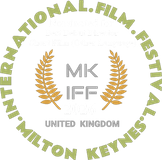
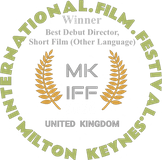
Milton Keynes: laurel de Ganador (Mejor director debutante) y premio en la seccion Premios; se quita la linea de nominado

diff --git a/public/assets/js/data.js b/public/assets/js/data.js
@@ -311,7 +311,7 @@ window.PROYECTOS = {
       { src: 'assets/img/laurel-parana.png?v=3',   alt: 'Paraná Internacional Films Festival — Competición Oficial 2026', k: 1.07 },
       { src: 'assets/img/laurel-fict.png?v=3',     alt: 'FICT 2026', k: 1.08 },
       { src: 'assets/img/laurel-bcff.png?v=3',     alt: 'Official Selection — Begur Comedy Film Fest 2026', k: 1.17 },
-      { src: 'assets/img/laurel-mkiff.png?v=3',      alt: 'Nominated for Best Debut Director, Short Film (Other Language) — Milton Keynes International Film Festival 2026', k: 1.2 },
+      { src: 'assets/img/laurel-mkiff.png?v=4',      alt: 'Winner — Best Debut Director, Short Film (Other Language) — Milton Keynes International Film Festival 2026', k: 1.2 },
       { src: 'assets/img/laurel-oklahoma.png?v=3',  alt: 'Official Selection — Oklahoma Latin American Film Festival 2026', k: 1.07 },
       { src: 'assets/img/laurel-fictukuru.png?v=3',  alt: 'Selección oficial — FICTUKURU 12, Festival Internacional de Cine Tukuru 2026', k: 1.03 },
       { src: 'assets/img/laurel-fenacir.png?v=3',     alt: 'Selección oficial — FENACIR Distribución, Cortometrajes 2027' }
@@ -322,14 +322,14 @@ window.PROYECTOS = {
       { nombre: 'Paraná Internacional Films Festival', seccion: 'sec.competicion', anio: '2026' },
       { nombre: 'FICT',                              seccion: null,          anio: '2026' },
       { nombre: 'Begur Comedy Film Fest',            seccion: 'sec.oficial', anio: '2026' },
-      { nombre: 'Milton Keynes International Film Festival', seccion: 'sec.nominado', anio: '2026' },
       { nombre: 'Oklahoma Latin American Film Festival', seccion: 'sec.oficial', anio: '2026' },
       { nombre: 'FICTUKURU 12 — Festival Internacional de Cine Tukuru', seccion: 'sec.oficial', anio: '2026' },
       { nombre: 'FENACIR Distribución — Cortometrajes', seccion: 'sec.oficial', anio: '2027' }
     ],
     // premios ganados (no nominaciones) — se muestran en su propia sección
     premios: [
-      { premio: 'prem.nacional', festival: 'La Toba International Film Festival', anio: '2026' }
+      { premio: 'prem.nacional', festival: 'La Toba International Film Festival', anio: '2026' },
+      { premio: 'prem.debutante', festival: 'Milton Keynes International Film Festival', anio: '2026' }
     ]
 
   },

diff --git a/public/assets/js/i18n.js b/public/assets/js/i18n.js
@@ -96,11 +96,11 @@ window.I18N = {
     'sec.festivales': 'Recorrido en festivales',
     'sec.premios':    'Premios',
     'prem.nacional':  'Mejor cortometraje nacional',
+    'prem.debutante': 'Mejor director debutante (cortometraje, otro idioma)',
     'sec.stills':     'Stills',
     'sec.otros':      'Otros trabajos narrativos',
     'sec.oficial':    'Selección oficial',
     'sec.competicion':'Competición oficial',
-    'sec.nominado':   'Nominado a Mejor Director Debutante (cortometraje, otro idioma)',
     'laurel.more':    '+ los que caigan →',
 
     /* --- ficha técnica --- */
@@ -267,11 +267,11 @@ window.I18N = {
     'sec.festivales': 'Festival run',
     'sec.premios':    'Awards',
     'prem.nacional':  'Best National Short Film',
+    'prem.debutante': 'Best Debut Director (short film, other language)',
     'sec.stills':     'Stills',
     'sec.otros':      'Other narrative work',
     'sec.oficial':    'Official selection',
     'sec.competicion':'Official competition',
-    'sec.nominado':   'Nominated for Best Debut Director (short film, other language)',
     'laurel.more':    '+ more to come →',
 
     'f.direccion':    'Written, Produced and Directed by',

diff --git a/public/contacto.html b/public/contacto.html
@@ -9,7 +9,7 @@
 <link rel="preconnect" href="https://fonts.googleapis.com">
 <link rel="preconnect" href="https://fonts.gstatic.com" crossorigin>
 <link href="https://fonts.googleapis.com/css2?family=Bricolage+Grotesque:opsz,wght@12..96,200..800&display=swap" rel="stylesheet">
-<link rel="stylesheet" href="assets/css/site.css?v=1795193140">
+<link rel="stylesheet" href="assets/css/site.css?v=1795454530">
 </head>
 <body class="page has-bg">
 
@@ -108,9 +108,9 @@
   </span>
 </footer>
 
-<script src="assets/js/i18n.js?v=1795193140"></script>
-<script src="assets/js/data.js?v=1795193140"></script>
-<script src="assets/js/site.js?v=1795193140"></script>
+<script src="assets/js/i18n.js?v=1795454530"></script>
+<script src="assets/js/data.js?v=1795454530"></script>
+<script src="assets/js/site.js?v=1795454530"></script>
 <script>document.getElementById('year').textContent = new Date().getFullYear();</script>
 <script>
 /* Envío por AJAX a Formspree; si falla (sin internet, límite del plan…)

diff --git a/public/cine.html b/public/cine.html
@@ -9,7 +9,7 @@
 <link rel="preconnect" href="https://fonts.googleapis.com">
 <link rel="preconnect" href="https://fonts.gstatic.com" crossorigin>
 <link href="https://fonts.googleapis.com/css2?family=Bricolage+Grotesque:opsz,wght@12..96,200..800&display=swap" rel="stylesheet">
-<link rel="stylesheet" href="assets/css/site.css?v=1795193140">
+<link rel="stylesheet" href="assets/css/site.css?v=1795454530">
 </head>
 <body class="page">
 
@@ -109,9 +109,9 @@
 </footer>
 
 <script src="https://player.vimeo.com/api/player.js"></script>
-<script src="assets/js/i18n.js?v=1795193140"></script>
-<script src="assets/js/data.js?v=1795193140"></script>
-<script src="assets/js/site.js?v=1795193140"></script>
+<script src="assets/js/i18n.js?v=1795454530"></script>
+<script src="assets/js/data.js?v=1795454530"></script>
+<script src="assets/js/site.js?v=1795454530"></script>
 <script>document.getElementById('year').textContent = new Date().getFullYear();</script>
 </body>
 </html>

diff --git a/public/index.html b/public/index.html
@@ -9,7 +9,7 @@
 <link rel="preconnect" href="https://fonts.googleapis.com">
 <link rel="preconnect" href="https://fonts.gstatic.com" crossorigin>
 <link href="https://fonts.googleapis.com/css2?family=Bricolage+Grotesque:opsz,wght@12..96,200..800&display=swap" rel="stylesheet">
-<link rel="stylesheet" href="assets/css/site.css?v=1795193140">
+<link rel="stylesheet" href="assets/css/site.css?v=1795454530">
 </head>
 <body class="home">
 
@@ -79,8 +79,8 @@
   <span class="right hint-mobile" data-i18n="home.hint.mobile">El video se reproduce al hacer scroll</span>
 </footer>
 
-<script src="assets/js/i18n.js?v=1795193140"></script>
-<script src="assets/js/data.js?v=1795193140"></script>
-<script src="assets/js/site.js?v=1795193140"></script>
+<script src="assets/js/i18n.js?v=1795454530"></script>
+<script src="assets/js/data.js?v=1795454530"></script>
+<script src="assets/js/site.js?v=1795454530"></script>
 </body>
 </html>

diff --git a/public/sobre.html b/public/sobre.html
@@ -9,7 +9,7 @@
 <link rel="preconnect" href="https://fonts.googleapis.com">
 <link rel="preconnect" href="https://fonts.gstatic.com" crossorigin>
 <link href="https://fonts.googleapis.com/css2?family=Bricolage+Grotesque:opsz,wght@12..96,200..800&display=swap" rel="stylesheet">
-<link rel="stylesheet" href="assets/css/site.css?v=1795193140">
+<link rel="stylesheet" href="assets/css/site.css?v=1795454530">
 </head>
 <body class="page has-bg">
 
@@ -92,9 +92,9 @@
   </span>
 </footer>
 
-<script src="assets/js/i18n.js?v=1795193140"></script>
-<script src="assets/js/data.js?v=1795193140"></script>
-<script src="assets/js/site.js?v=1795193140"></script>
+<script src="assets/js/i18n.js?v=1795454530"></script>
+<script src="assets/js/data.js?v=1795454530"></script>
+<script src="assets/js/site.js?v=1795454530"></script>
 <script>document.getElementById('year').textContent = new Date().getFullYear();</script>
 </body>
 </html>

diff --git a/public/its-time-for-dinner.html b/public/its-time-for-dinner.html
@@ -9,7 +9,7 @@
 <link rel="preconnect" href="https://fonts.googleapis.com">
 <link rel="preconnect" href="https://fonts.gstatic.com" crossorigin>
 <link href="https://fonts.googleapis.com/css2?family=Bricolage+Grotesque:opsz,wght@12..96,200..800&display=swap" rel="stylesheet">
-<link rel="stylesheet" href="assets/css/site.css?v=1795193140">
+<link rel="stylesheet" href="assets/css/site.css?v=1795454530">
 </head>
 <body class="page">
 
@@ -143,9 +143,9 @@
   </span>
 </footer>
 
-<script src="assets/js/i18n.js?v=1795193140"></script>
-<script src="assets/js/data.js?v=1795193140"></script>
-<script src="assets/js/site.js?v=1795193140"></script>
+<script src="assets/js/i18n.js?v=1795454530"></script>
+<script src="assets/js/data.js?v=1795454530"></script>
+<script src="assets/js/site.js?v=1795454530"></script>
 <script>document.getElementById('year').textContent = new Date().getFullYear();</script>
 </body>
 </html>

diff --git a/public/los-idiotas.html b/public/los-idiotas.html
@@ -9,7 +9,7 @@
 <link rel="preconnect" href="https://fonts.googleapis.com">
 <link rel="preconnect" href="https://fonts.gstatic.com" crossorigin>
 <link href="https://fonts.googleapis.com/css2?family=Bricolage+Grotesque:opsz,wght@12..96,200..800&display=swap" rel="stylesheet">
-<link rel="stylesheet" href="assets/css/site.css?v=1795193140">
+<link rel="stylesheet" href="assets/css/site.css?v=1795454530">
 </head>
 <body class="page">
 
@@ -150,9 +150,9 @@
   </span>
 </footer>
 
-<script src="assets/js/i18n.js?v=1795193140"></script>
-<script src="assets/js/data.js?v=1795193140"></script>
-<script src="assets/js/site.js?v=1795193140"></script>
+<script src="assets/js/i18n.js?v=1795454530"></script>
+<script src="assets/js/data.js?v=1795454530"></script>
+<script src="assets/js/site.js?v=1795454530"></script>
 <script>document.getElementById('year').textContent = new Date().getFullYear();</script>
 </body>
 </html>

diff --git a/public/no-drugs-no-dancing.html b/public/no-drugs-no-dancing.html
@@ -9,7 +9,7 @@
 <link rel="preconnect" href="https://fonts.googleapis.com">
 <link rel="preconnect" href="https://fonts.gstatic.com" crossorigin>
 <link href="https://fonts.googleapis.com/css2?family=Bricolage+Grotesque:opsz,wght@12..96,200..800&display=swap" rel="stylesheet">
-<link rel="stylesheet" href="assets/css/site.css?v=1795193140">
+<link rel="stylesheet" href="assets/css/site.css?v=1795454530">
 </head>
 <body class="page">
 
@@ -143,9 +143,9 @@
   </span>
 </footer>
 
-<script src="assets/js/i18n.js?v=1795193140"></script>
-<script src="assets/js/data.js?v=1795193140"></script>
-<script src="assets/js/site.js?v=1795193140"></script>
+<script src="assets/js/i18n.js?v=1795454530"></script>
+<script src="assets/js/data.js?v=1795454530"></script>
+<script src="assets/js/site.js?v=1795454530"></script>
 <script>document.getElementById('year').textContent = new Date().getFullYear();</script>
 </body>
 </html>

diff --git a/public/their-circle.html b/public/their-circle.html
@@ -9,7 +9,7 @@
 <link rel="preconnect" href="https://fonts.googleapis.com">
 <link rel="preconnect" href="https://fonts.gstatic.com" crossorigin>
 <link href="https://fonts.googleapis.com/css2?family=Bricolage+Grotesque:opsz,wght@12..96,200..800&display=swap" rel="stylesheet">
-<link rel="stylesheet" href="assets/css/site.css?v=1795193140">
+<link rel="stylesheet" href="assets/css/site.css?v=1795454530">
 </head>
 <body class="page">
 
@@ -143,9 +143,9 @@
   </span>
 </footer>
 
-<script src="assets/js/i18n.js?v=1795193140"></script>
-<script src="assets/js/data.js?v=1795193140"></script>
-<script src="assets/js/site.js?v=1795193140"></script>
+<script src="assets/js/i18n.js?v=1795454530"></script>
+<script src="assets/js/data.js?v=1795454530"></script>
+<script src="assets/js/site.js?v=1795454530"></script>
 <script>document.getElementById('year').textContent = new Date().getFullYear();</script>
 </body>
 </html>

diff --git a/public/ximoquetza.html b/public/ximoquetza.html
@@ -9,7 +9,7 @@
 <link rel="preconnect" href="https://fonts.googleapis.com">
 <link rel="preconnect" href="https://fonts.gstatic.com" crossorigin>
 <link href="https://fonts.googleapis.com/css2?family=Bricolage+Grotesque:opsz,wght@12..96,200..800&display=swap" rel="stylesheet">
-<link rel="stylesheet" href="assets/css/site.css?v=1795193140">
+<link rel="stylesheet" href="assets/css/site.css?v=1795454530">
 </head>
 <body class="page">
 
@@ -140,9 +140,9 @@
   </span>
 </footer>
 
-<script src="assets/js/i18n.js?v=1795193140"></script>
-<script src="assets/js/data.js?v=1795193140"></script>
-<script src="assets/js/site.js?v=1795193140"></script>
+<script src="assets/js/i18n.js?v=1795454530"></script>
+<script src="assets/js/data.js?v=1795454530"></script>
+<script src="assets/js/site.js?v=1795454530"></script>
 <script>document.getElementById('year').textContent = new Date().getFullYear();</script>
 </body>
 </html>

diff --git a/public/fotografia.html b/public/fotografia.html
@@ -9,7 +9,7 @@
 <link rel="preconnect" href="https://fonts.googleapis.com">
 <link rel="preconnect" href="https://fonts.gstatic.com" crossorigin>
 <link href="https://fonts.googleapis.com/css2?family=Bricolage+Grotesque:opsz,wght@12..96,200..800&display=swap" rel="stylesheet">
-<link rel="stylesheet" href="assets/css/site.css?v=1795193140">
+<link rel="stylesheet" href="assets/css/site.css?v=1795454530">
 </head>
 <body class="page">
 
@@ -66,9 +66,9 @@
   </span>
 </footer>
 
-<script src="assets/js/i18n.js?v=1795193140"></script>
-<script src="assets/js/data.js?v=1795193140"></script>
-<script src="assets/js/site.js?v=1795193140"></script>
+<script src="assets/js/i18n.js?v=1795454530"></script>
+<script src="assets/js/data.js?v=1795454530"></script>
+<script src="assets/js/site.js?v=1795454530"></script>
 <script>document.getElementById('year').textContent = new Date().getFullYear();</script>
 </body>
 </html>
